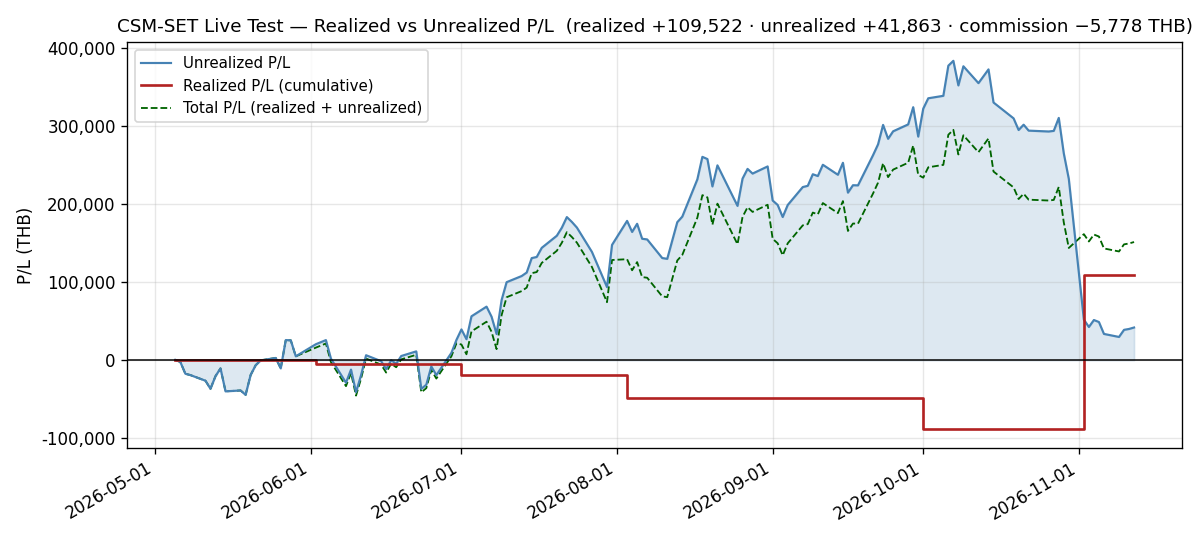
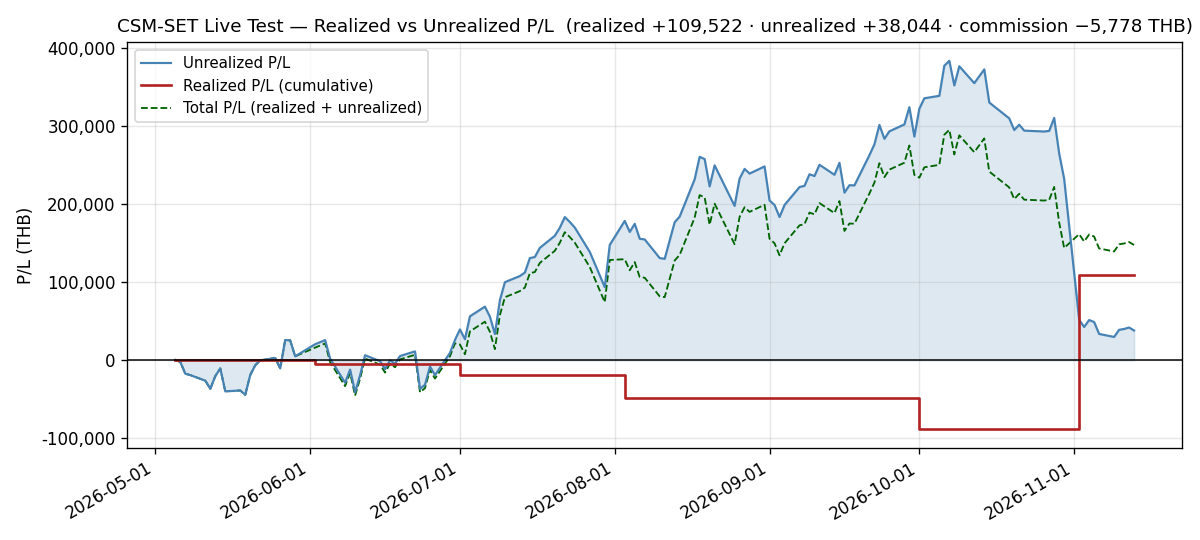
docs(live-test): add daily log for 2026-11-13
Scored session 10 of 41: NAV 1,265,955.32, -3,819.00 (-0.3008%) on the session and +0.3007% on NAV0; 4 up, 6 down. INSET, SMT and EPG took -3,902.00 together. Breaker stays TRIPPED (rolling drawdown -10.4372%); regime BEAR while the SET rose +0.3882% to its highest close since 2026-11-02. Sixth refresh on the current image clean (211/0); 44 of 430 holiday polls banked. Records the 2026-11-12 deletion of rollback-20261104 and the alert's AWS deploy of 2026-11-12. pnl.csv extended to 2026-11-13; only the P/L chart regenerated.

Claude-Session: https://claude.ai/code/session_01VKyqnmKmz6Hh9ErHRFMhFr

diff --git a/docs/live-test/daily/2026-11-13.md b/docs/live-test/daily/2026-11-13.md
@@ -1,0 +1,273 @@
+# Daily Log — 2026-11-13 (Friday)
+
+**As of:** 2026-11-13, Asia/Bangkok
+**Phase:** D — Final Evaluation & Documentation
+**Day:** 132 / 31 trading days remaining in 2026
+**Status:** 🟢 **SCORED — session 10 of 41 in the registered window** (`reports/2026-10-27-forward-scoring-pre-registration.md`). **NAV closes at 1,265,955.32 THB, −3,819.00 (−0.3008%) on the session and +0.3007% on NAV₀ = 1,262,159.89.** **4 names rose and 6 fell**; INSET (−4.17%), SMT (−4.48%) and EPG (−6.03%) together took −3,902.00, more than the book lost. 🔴 **The circuit breaker stays TRIPPED**, its rolling drawdown deepening to **−10.4372%** from −10.1670%. 🔴 **The regime stays BEAR**, although the SET rose +0.3882% to its highest close since 2026-11-02. 🟢 **The sixth scheduled refresh on image `7e49ed4f6a87` ran clean** (211 / 0), and no bound fired. Since the settfex 0.26.3 upgrade, **44 of 430 holiday polls banked** (Risk Note 7). Total Return on NAV is **+13.03%**.
+
+---
+
+## Execution Summary
+
+**No trades today.** The book is the one recorded from the 2026-11-02 rotation (`configs/live_portfolio.yaml` at `2f846b0`), unchanged since. Realized P/L for the session is **0.00 THB** and no commission was paid. **The breaker's safe mode acts only at a month-end evaluation**, so equity at 18.7825% of NAV creates no trade. The next evaluation is **2026-11-30** (registration §3).
+
+---
+
+## Portfolio Snapshot
+
+> 🟢 **Every figure in this section is SCORED-WINDOW data, session 10.** It is `configs/live_portfolio.yaml` at `2f846b0` repriced against the 2026-11-13 bar of `data/processed/prices_latest.parquet`, and it **equals** the `db_gateway.daily_performance` row the 18:00 refresh wrote.
+
+`Avg Cost` is the commission-inclusive per-share basis carried from `configs/live_portfolio.yaml` (4-decimal precision); `Cost Basis = shares × Avg Cost`, and `U.PL % = MV / Cost Basis − 1`.
+
+| # | Symbol | Shares | Avg Cost | Last Price | Market Value (THB) | Cost Basis (THB) | U.PL % |
+|---|--------|-------:|---------:|-----------:|--------------------:|-----------------:|-------:|
+| 1 | IRPC | 11,300 | 2.3037 | 2.48 | 28,024.00 | 26,031.81 | +7.65% |
+| 2 | HANA | 600 | 35.8070 | 46.75 | 28,050.00 | 21,484.20 | +30.56% |
+| 3 | GUNKUL | 6,100 | 2.9246 | 4.84 | 29,524.00 | 17,840.06 | +65.49% |
+| 4 | INSET | 8,400 | 3.0848 | 4.14 | 34,776.00 | 25,912.32 | +34.21% |
+| 5 | KCE | 500 | 39.0655 | 59.00 | 29,500.00 | 19,532.75 | +51.03% |
+| 6 | EPG | 3,400 | 5.9099 | 5.45 | 18,530.00 | 20,093.66 | −7.78% |
+| 7 | SMT | 4,000 | 5.8097 | 6.40 | 25,600.00 | 23,238.80 | +10.16% |
+| 8 | CNT | 3,600 | 3.3456 | 3.14 | 11,304.00 | 12,044.16 | −6.15% |
+| 9 | SPRC | 1,200 | 13.8232 | 13.40 | 16,080.00 | 16,587.84 | −3.06% |
+| 10 | SSP | 2,200 | 7.7129 | 7.45 | 16,390.00 | 16,968.38 | −3.41% |
+
+### Portfolio summary
+
+| Metric | Value |
+|--------|-------|
+| Total Cost Basis | 199,733.98 THB |
+| Total Market Value | 237,778.00 THB |
+| Unrealized P/L | +38,044.02 THB (+19.05%) |
+| Realized P/L (today) | 0.00 THB |
+| Realized P/L (cumulative, since inception) | **+109,521.83 THB** |
+| Commission paid (cumulative) | **−5,777.54 THB** |
+
+### Account summary
+
+| Metric | Value |
+|--------|-------|
+| Remaining Cash | 1,028,177.32 THB |
+| Total NAV | 1,265,955.32 THB |
+| Total Return on NAV | +13.03% |
+
+> **Cost-basis note:** Total Cost Basis is **199,733.98 THB**, equal to Σ per-symbol `shares × avg_cost` with a **0.00** delta, unchanged since the rotation.
+>
+> **Above/below cost: 6 up / 4 down**, the same names as on 2026-11-12. **EPG** (−7.78%), **CNT** (−6.15%), **SSP** (−3.41%) and **SPRC** (−3.06%) are below.
+>
+> **Equity is 18.7825% of NAV** (237,778.00 of 1,265,955.32), down from 19.0268%. The breaker acts only at the month-end evaluation.
+>
+> **Total P/L check:** realized + unrealized = 109,521.83 + 38,044.02 = **+147,565.85 THB**, down from +151,384.85 by **3,819.00**, exactly the session's NAV change.
+
+---
+
+## Day-over-Day Change (vs Thursday November 12)
+
+| Symbol | Nov 12 Close | Nov 13 Close | Change | Change % | MV Contribution (THB) |
+|--------|-------------:|-------------:|-------:|---------:|----------------------:|
+| IRPC | 2.40 | 2.48 | +0.08 | +3.33% | +904.00 |
+| SPRC | 13.20 | 13.40 | +0.20 | +1.52% | +240.00 |
+| CNT | 3.10 | 3.14 | +0.04 | +1.29% | +144.00 |
+| KCE | 58.25 | 59.00 | +0.75 | +1.29% | +375.00 |
+| SSP | 7.55 | 7.45 | -0.10 | -1.32% | -220.00 |
+| GUNKUL | 4.94 | 4.84 | -0.10 | -2.02% | -610.00 |
+| HANA | 48.00 | 46.75 | -1.25 | -2.60% | -750.00 |
+| INSET | 4.32 | 4.14 | -0.18 | -4.17% | -1,512.00 |
+| SMT | 6.70 | 6.40 | -0.30 | -4.48% | -1,200.00 |
+| EPG | 5.80 | 5.45 | -0.35 | -6.03% | -1,190.00 |
+| **Total** | | | | **-1.58%** | **-3,819.00** |
+
+**Breadth: 4 up, 6 down, 0 flat.**
+
+> The `Change %` on the Total row is the **market-value** change (−3,819.00 / 241,597.00 = −1.5807%), not the NAV change (−3,819.00 / 1,269,774.32 = −0.3008%). They differ by the cash in the NAV denominator, 80.97% of the prior session's NAV in safe mode.
+
+**Three names took more than the book lost.**
+
+- **INSET −4.17% (−1,512.00), SMT −4.48% (−1,200.00) and EPG −6.03% (−1,190.00)** took −3,902.00, against the session's −3,819.00. INSET closed at its lowest since 2026-10-27, and EPG's fall is its largest since 2026-11-06.
+- **HANA −2.60% (−750.00)** gave back part of its +20.75%, and GUNKUL fell −2.02% (−610.00).
+- **IRPC +3.33% (+904.00)** led the four risers, with KCE, SPRC and CNT; together they added +1,663.00.
+- **The book's −3,819.00 is its largest one-session fall since 2026-11-09**, and NAV is at its lowest since 2026-11-09.
+- **The book fell −0.3008% while the SET rose +0.3882%**, a **−0.6890pp** difference. It is a same-session arithmetic result for a book that is 81.22% cash, not a performance comparison (Market Context).
+
+---
+
+## Market Context
+
+| Indicator | Value | Source |
+|-----------|-------|--------|
+| SET Index | 1,504.88 | tvkit (TradingView) |
+| SET Open / High / Low | 1,499.07 / 1,513.33 / 1,499.02 | tvkit |
+| SET 200-day SMA | 1,524.6188 | tvkit (TradingView) |
+| Regime Estimate | BEAR | SET −1.29% below SMA200 |
+
+> ⚠ **This is context, NOT a benchmark comparison, and it must not be read as one.**
+>
+> - **Different price bases.** `SET:SET` is a **price index**; the strategy series above is priced on **dividend-adjusted** bars (since `e04a292`, 2026-08-09). The difference is one-sided in the strategy's favour, and it is not small: measured 2026-09-11 over 2024-03-19 → 2026-09-10, the dividend adjustment is worth **+12.09 percentage points** on this universe, roughly **+4.8%/yr**.
+> - **No alpha, excess return or outperformance figure is computed anywhere in this log.** The registration's tracking error against this index is reported in Risk Note 1 as a risk metric (§5).
+
+---
+
+## Regime State
+
+- **Detected regime:** 🔴 **BEAR**, the tenth session. SET (1,504.88) is **below** SMA200 (1,524.6188) by −1.2947%.
+- **SMA200 position:** 1,524.6188, with the SET closing 19.74 points under it.
+- **3-month return:** −7.36% (window-sensitive — see Notes).
+- **The engine's own `RegimeDetector.detect()` also returns BEAR**: price below SMA200, and a 63-session return of **−6.47%** against its −5% threshold.
+- **No regime-driven action under the registration.** The regime filter is not one of the registered rules (§4). The SET closed −3.25% below its own EMA100 and −0.54% below its EMA200; both are reported and not applied.
+
+**The last six closes read 1,465.70 → 1,473.07 → 1,496.31 → 1,502.11 → 1,499.06 → 1,504.88.**
+
+- **Today:** a **+5.82 point, +0.3882%** session. The index is **−7.2144%** below the 2026-09-08 high.
+- **The SET's highest close since 2026-11-02**, on bars fetched back to 2020-09-02.
+- **Range:** **14.31 points**, against 12.62 the prior session. The index opened at 1,499.07, reached 1,513.33, and closed 5.86 above its low.
+- **Cushion rose −1.6024% → −1.2947%, a +0.3077pp step**, its highest since 2026-11-05. SMA200 rose to **1,524.6188** (+1.1464).
+- **A BEAR→BULL crossing needs the index 19.74 points higher**, +1.31% at today's SMA200.
+
+The 3-month figure moved from −7.01% to −7.36%, its start bar moving from 2026-08-07 (1,612.00) to 2026-08-10 (1,624.36).
+
+---
+
+## Sector Concentration
+
+Groupings are SET-official, as on 2026-11-02. The book is held at about 20% equity by the breaker's safe mode.
+
+| Sector | Market Value (THB) | % of NAV | % of stocks held | Limit (NAV) | Status |
+|--------|--------------------:|---------:|-----------------:|-------------|--------|
+| Energy & Utilities (ENERG) | 90,018 | 7.1107% | 37.8580% | 35% | OK on NAV |
+| Electronic Components (ETRON) | 83,150 | 6.5682% | 34.9696% | 35% | OK on NAV |
+| ICT | 34,776 | 2.7470% | 14.6254% | 35% | OK |
+| Construction Materials (CONMAT) | 18,530 | 1.4637% | 7.7930% | 35% | OK |
+| Construction Services (CONS) | 11,304 | 0.8929% | 4.7540% | — | below the 5% floor by ruling I5 |
+
+- **ENERG still leads at 7.1107% of NAV** (+0.0461pp). **ETRON fell −0.1042pp to 6.5682%** on SMT and HANA. ICT −0.1108pp on INSET, CONMAT −0.0893pp on EPG, CONS +0.0140pp.
+- **The 35% cap is measured on NAV** (I2), and no sector is near it.
+- **As a share of the stocks held, ENERG is 37.86% and ETRON 34.97%.** The two hold 72.83% of the equity sleeve between them. This is recorded for context; it is not the registered measure.
+- **Every position is below the 5% floor**, between 0.8929% (CNT) and 2.7470% (INSET) of NAV. The breaker governs the band (I5), so **these are not deviations**.
+
+---
+
+## Risk Notes
+
+1. 🟢 **SCORED SESSION 10 OF 41.**
+
+   | Measure (registration §5) | Value |
+   |---|---|
+   | NAV₀ (2026-10-30 close) | 1,262,159.89 |
+   | NAV₉ (2026-11-12 close) | 1,269,774.32 |
+   | NAV₁₀ (2026-11-13 close) | 1,265,955.32 |
+   | r₁₀ = NAV₁₀ / NAV₉ − 1 | **−0.3008%** |
+   | Window return to date | **+0.3007%** |
+   | Max drawdown to date (running peak from NAV₀) | **−1.7323%** (2026-11-09, from the 2026-11-02 peak) |
+   | Annualized volatility (n = 10) | 12.06% |
+   | Sharpe, rf = 2% (n = 10) · rf = 0 | 0.52 · 0.68 |
+   | Tracking error vs `SET:SET` (n = 10) | 14.59% |
+
+   **Ten returns carry almost no information**, and annualizing them magnifies that. **No criterion is graded before the window ends** (2026-12-30), and §9's power statement applies to every figure here.
+2. 🟢 **`daily_performance` equals this log.** The row reads **1,265,955.32, cash 1,028,177.32**, and `equity_curve` agrees.
+   - `daily_return` (−0.3008%) equals the day-over-day change to within 1×10⁻¹⁹.
+   - `cumulative_return` reads −1.0851% and `combined_drawdown` −1.7323%: both are measured from `entry_date` 2026-11-02. They are not the scored series (§5).
+3. 🔴 **CIRCUIT BREAKER — TRIPPED, threaded one session (I4).**
+   - **Procedure:** `DrawdownCircuitBreaker` with the recorded parameters (60 sessions, −10% trip, −5% recovery held 21 sessions), called with the state carried from 2026-11-12 (TRIPPED, recovery progress 0) on the published NAV series. It returns **TRIPPED**, rolling drawdown **−10.4372%**, equity fraction **0.20**, no transition.
+   - The drawdown deepened from −10.1670% on 2026-11-12. **Recovery needs it above −5%**, so the state does not move.
+   - The 2026-10-07 peak (1,413,483.89) is still the window's high.
+   - **Recovery** starts when the rolling drawdown rises above −5%, at NAV **1,342,809.70**. That is **76,854.38 (+6.0709%)** above today's NAV. From a book 18.78% in stocks, it needs the equity sleeve to rise about **32.32%**.
+   - **The 1,064,000 THB line** (5% below `starting_nav`) has NAV **+201,955.32** (15.95%) above it. Under the registration it is a reporting line and carries no action.
+4. 🔴 **REGIME — BEAR, the tenth session** (Regime State). Under the registration it changes nothing. The transition is recorded in `events/2026-11-02-regime-transition-bull-to-bear.md`.
+5. 🟢 **EXECUTION — CLOSED** by the operator's ruling of 2026-11-04: the operator places every order by hand (registration §12; `events/2026-11-03-rotation-orders-placed-as-limit-orders.md`). Nothing changed since.
+6. 🟢 **REFRESH — the sixth scheduled firing on image `7e49ed4f6a87` ran clean.** It started at 11:00:00Z and completed at 11:01:32Z with receipt 211 / 0, in 90.634 s.
+   - **No bound fired.** The container log since the image started holds no "Failed to fetch symbol" line, no "timed out" line and no "daily_refresh exceeded" line, and every symbol came back on attempt 1. [[TK-0657]]
+7. ⚠ **HOLIDAY POLL — 44 of 430 polls banked since the settfex 0.26.3 upgrade (10.2%); 37 of 384 on the current image.**
+
+   | Window | Image | Poll runs | Banked | Failure lines |
+   |---|---|---:|---:|---|
+   | 2026-11-04T12:20:14Z → 2026-11-05T10:50:14Z | `db0cb596918c` | 46 | 7 | none (failures logged at DEBUG) |
+   | 2026-11-05T11:26:33Z → 2026-11-13T10:56:33Z | `7e49ed4f6a87` | 384 | 37 | 347, all `FetchError status_code=401` |
+   | **Total** | | **430** | **44** | |
+
+   - **How banked polls are counted.** The observer's record covers the current image's first 99 runs (6 banked). After it ended on 2026-11-07T12:33:49Z, a run with no failure line counts as banked.
+   - **Positive control:** the latest run before the 18:00 firing with no failure line, 09:56:33Z, matches the `captured_at` of 09:56:33Z that the firing read.
+   - **Exposure:** polls banked on every Bangkok date since the upgrade (2026-11-04: 2, 2026-11-05: 5, 2026-11-06: 4, 2026-11-07: 2, 2026-11-08: 7, 2026-11-09: 3, 2026-11-10: 3, 2026-11-11: 6, 2026-11-12: 6, 2026-11-13: 6 to the 18:00 firing). The longest gap between two banked polls is still **17 h 00 m** (2026-11-06 12:56Z → 2026-11-07 05:56Z).
+   - #461 has no reply from `session:pm` yet.
+8. 🟢 **INFRA — one housekeeping change.**
+   - **`rollback-20261104`** (`73a1ace1eaee`, the last settfex 0.15.1 image) was deleted on 2026-11-12, with the operator's go: `docker image rm` without `-f`, after checking that no container used it.
+   - **`rollback-20261105`** (`db0cb596918c`, settfex 0.26.3) stays as the immediate rollback for the running image.
+   - **The missing-receipt alert** (TK-0657, closed) has run on HOME since 2026-11-11 (#464). This session's report landed at 18:01 BKK, before the 22:30 BKK due time.
+   - **Its AWS deploy landed on 2026-11-12 at 17:06:15 BKK.** It is inert there, because AWS has no gateway and no webhook. The record is the umbrella's observability roadmap (A20, `0b0363c`), not a comment on #464. ↻ **The 2026-11-12 log said this deploy was "not yet recorded"**. It had been recorded at 17:14 BKK that day, in the roadmap, which that log did not check.
+9. 🟢 **Bands, by ruling.** The 35% cap is measured on NAV, where ENERG leads at 7.1107% (I2). Every position is below the 5% floor (I5). [[TK-0279]]
+10. 🟢 **The uncredited dividend total holds at 8,927.00 THB**: KCE 1,560.00, INSET 2,100.00, MGC 2,208.00, FORTH 795.00, IRPC 2,264.00.
+    - That is **0.71% of NAV** and **6.05%** of the +147,565.85 total P/L.
+    - The registration reports dividends beside each score and does not credit them (§8).
+11. ⚠ **DOC — the `csm-set-daily-log` skill's `daily_return` guidance remains stale.** Its Step 3 still calls the field *"an open defect, not yet fixed in code"*; it was fixed 2026-09-02, and today's row shows it (Risk Note 2). **Forty-sixth log to carry this.**
+12. **Open decisions — answered for the scored window, by the registration's §8 and §12 and the 2026-10-31 rulings.**
+
+    | Decision | Registered for the window |
+    |---|---|
+    | EMA100 | per holding |
+    | Bands | bind at construction, on the names being traded; the breaker governs them in safe mode (I5) |
+    | Sector cap | measured on NAV, checked on the scaled book (I2) |
+    | Breaker state | advances every trading session (I4) |
+    | Price history | the published NAV, frozen at publication |
+    | Dividends | not credited, reported beside each score |
+    | Fill rule | the operator places every order by hand (amendment of 2026-11-04, registration §12) |
+
+---
+
+## Notes
+
+- **Scheduled refresh completed via APScheduler with zero failures.**
+  - `"Scheduled daily_refresh completed"` at **2026-11-13T11:01:32Z** (18:01 BKK).
+  - It was the 18:00 cron firing (`cron[... day_of_week='mon-fri', hour='18', minute='0']`, started 11:00:00Z).
+  - Receipt: `symbols_fetched=211, failures=0, duration_seconds=90.634, held_symbols_fetched=10, held_symbols_failed=0, retry_attempts_used=0, index_fetched=true`, corroborated by `results/.tmp/last_refresh.json`.
+  - The held phase ended `requested=10 recovered=10 still_failing=0` at 11:00:08Z, and the universe phase `requested=201 recovered=201 still_failing=0` at 11:01:13Z. The gateway accepted the daily report (`201`) at 11:01:32Z.
+  - The cron trigger is unchanged (Monday to Friday, 18:00), so the next firing is 2026-11-16 18:00 +07.
+- **No manual trigger, checked on the access log's fields.**
+  - Every access record since the container started was parsed, and its `method` and `path` fields were tested for a `POST` to a path under `/api/v1/scheduler/run`. There were 22,794 access records, all `GET /health`, and no `POST` of any kind.
+  - **Positive control:** the same parse finds a synthetic access record with method `POST` and path `/api/v1/scheduler/run/daily_refresh` appended to a copy of the log.
+- **The log holds no ERROR since the container started.** Of 31,933 JSON records, 31,932 are INFO and one is WARNING: the startup notice that `CSM_API_KEY` is unset (2026-11-05T11:26:03Z).
+- **The container runs image `7e49ed4f6a87`**, its sixth scheduled refresh.
+  - `Created` 2026-11-05T11:25:48Z, `StartedAt` 11:25:50Z, `RestartCount` 0. `FinishedAt` is unset (0001-01-01) because this container has never stopped.
+  - The host has not rebooted since 2026-10-06 (`uptime -s` 2026-10-06 10:46:02).
+- **`SET:THCOM` was fetched with 600 bars again.**
+- **The price panel and the prior log agree on all ten names**, so **nothing was restated**.
+- **The panel's row count fell 899 → 898.** Every row still carries a 09:55 Bangkok stamp, the column count is unchanged at **211**, and no session date is duplicated.
+- **Row-integrity checks pass.** `db_csm_set.equity_curve` holds **exactly one row per trading day at `00:00:00+00`** (131 rows, 131 dates, none off midnight), and today's row equals `daily_performance.total_value`.
+- **`configs/live_portfolio.yaml` is unchanged** since `2f846b0`.
+- **The P/L identity holds.** `realized_cum + unrealized − (NAV − starting_nav)` = 109,521.83 + 38,044.02 − 145,955.32 = **1,610.53 THB**, unchanged.
+- **Every figure was verified rather than asserted.**
+  - Σ position market value equals Total Market Value exactly (237,778.00).
+  - **Total NAV (1,265,955.32) equals `db_gateway.daily_performance.total_value` to the satang**, and cash equals the YAML's 1,028,177.32.
+  - The contributions sum to the session's NAV change (−3,819.00) exactly.
+  - The sector table sums to Total Market Value exactly.
+  - Σ per-symbol cost basis matches Total Cost Basis with a **0.00** delta, and the position count is 10.
+  - All money arithmetic used `Decimal` with explicit half-up rounding, and so did SMA200.
+- **Realized P/L and commission ledger, unchanged.**
+  - Realized cumulative **+109,521.83 THB**: 2026-06-02 −4,351.87 · 2026-07-01 −14,964.06 · 2026-08-03 −29,775.45 · 2026-10-01 −39,365.29 · 2026-11-02 +197,978.50.
+  - Commission cumulative **−5,777.54 THB**: 05-05 1,611.15 · 06-02 984.44 · 06-04/05 169.09 · 07-01 287.83 · 08-03 682.65 · 10-01 201.81 · 11-02 1,840.57.
+- **Capital events to date, unchanged.** `starting_nav` 1,120,000 after 1,000,000 → 1,100,000 (2026-06-04, +100,000) → 1,120,000 (2026-08-03, +20,000).
+- **Every superlative was computed, and each names its window.**
+
+  | Claim | Window | Source |
+  |---|---|---|
+  | INSET's low; EPG's fall | the whole panel, which starts 2024-05-27 for these names | the panel |
+  | The book's largest fall since 2026-11-09, and NAV's lowest since 2026-11-09 | the published NAV series, from 2026-05-04 | `daily_performance` |
+  | The SET's highest close since 2026-11-02; the cushion's highest since 2026-11-05 | bars fetched back to 2020-09-02 | tvkit |
+- **3-month return figure is window-sensitive.** −7.36% is measured over the trailing 66 bars from today's close (start bar 2026-08-10, 1,624.36). The engine's 63-session figure is −6.47%. The regime estimate uses the SMA200 only.
+- **Follow-ups for the next session (Monday 2026-11-16 18:00 +07).**
+
+  | | Item | Level |
+  |---|---|---|
+  | (a) | the breaker state, threaded once | TRIPPED; rolling drawdown −10.4372%; recovery above 1,342,809.70 |
+  | (b) | the regime | BEAR; 19.74 points to a BULL crossing |
+  | (c) | the holiday-poll rate | banked ÷ run, by failure lines |
+  | (d) | #461 | `session:pm`'s |
+  | (e) | the next monthly evaluation | 2026-11-30 |
+
+  **The five follow-ups from 2026-11-12 are closed above or elsewhere:**
+  - (a) Risk Note 3; (b) Risk Note 4; (c) Risk Note 7;
+  - (d) Risk Note 8: `rollback-20261104` deleted on the operator's go;
+  - (e) the weekly report for 2026-11-09 → 2026-11-13 is written after this log (`weekly/2026-11-13.md`).
+- **Calendar.** 2026-11-13 was a trading session.
+  - The 18:00 firing read the banked SET holiday calendar (`results/.tmp/set_holidays.json`) at `captured_at 2026-11-13T09:56:33Z`.
+  - The banked calendar lists the remaining 2026 closures as **2026-12-07**, **2026-12-10** and **2026-12-31**. The next session is **2026-11-16**.
+  - No trading hours are stated anywhere in this log.
+- Data fetched via tvkit (TradingView, free tier): all 10 held-symbol prices from the 18:00 BKK scheduled-cron refresh; SET Index context anchored explicitly to the 2026-11-13 bar. ⚠ **The vendor back-adjusts a symbol's entire history on an ex-dividend date**, so any prior-session price quoted here is the vendor's *current* view of that session and not necessarily what was published at the time.

diff --git a/docs/live-test/graphs/README.md b/docs/live-test/graphs/README.md
@@ -1,9 +1,9 @@
 # Live-Test Charts — how these are generated
 
-_🟢 **The three NAV charts are on the October month-end, 2026-10-30; the P/L chart is newer, 2026-11-12.** The three **NAV** charts
+_🟢 **The three NAV charts are on the October month-end, 2026-10-30; the P/L chart is newer, 2026-11-13.** The three **NAV** charts
 (`equity_curve`, `drawdown`, `monthly_returns`) were regenerated on 2026-10-30 from `nav_actual.csv` /
 `nav_twr.csv` extended to **121 points** (2026-05-04 → 2026-10-30). `pnl_realized_unrealized.png` was
-regenerated on 2026-11-12 from `pnl.csv` (**130 rows**, through 2026-11-12; its newest realized step is the 2026-11-02 rotation's). ⚠ **The September rows of the two NAV CSVs
+regenerated on 2026-11-13 from `pnl.csv` (**131 rows**, through 2026-11-13; its newest realized step is the 2026-11-02 rotation's). ⚠ **The September rows of the two NAV CSVs
 come from `db_gateway.daily_performance`, not `equity_curve`** — IRPC's 2026-09-09 restatement rewrote the
 `equity_curve` rows it would otherwise have supplied; see the 2026-09-30 History entry. **The October rows
 are the published daily-log NAVs**, which equal `equity_curve` on every October session; `daily_performance`
@@ -262,14 +262,24 @@ restatement has rewritten `equity_curve` rows inside the month being appended, *
 | `monthly_returns.png` | May **+0.33%** · Jun **+1.44%** · Jul **+9.53%** · Aug **+5.68%** · Sep **+2.90%** · Oct **−6.90%** (no flow in September or October, so the TWR and actual-NAV figures agree for both) |
 | **August bar is the TWR figure** | **+5.68%**, NOT the reported +7.40% and NOT the ex-injection +5.77%. Feeding `nav_actual.csv` instead reproduces the documented failure mode — **Jun +11.62%** and Aug +7.40% |
 | June bar vs the June review | must read **+1.44%**, not +11.62% |
-| `pnl_realized_unrealized.png` *(the 2026-11-12 PNG, through 11-12)* | realized **+109,521.83** · unrealized **+41,863.02** · commission **−5,777.54** THB; the realized line is **flat except at 2026-06-02, 2026-07-01, 2026-08-03, 2026-10-01 and 2026-11-02** — **five** steps, the last one upward. *(The 2026-11-11 PNG read the same realized and commission with unrealized +40,003.02 at 129 points; the 2026-11-10 PNG read the same realized and commission with unrealized +38,865.02 at 128 points; the 2026-11-09 PNG read the same realized and commission with unrealized +29,761.02 at 127 points; the 2026-11-06 PNG read the same realized and commission with unrealized +33,639.02 at 126 points; the 2026-11-05 PNG read the same realized and commission with unrealized +48,895.02 at 125 points; the 2026-11-04 PNG read the same realized and commission with unrealized +51,445.02 at 124 points; the 2026-11-03 PNG read the same realized and commission with unrealized +42,526.02 at 123 points; the 2026-11-02 PNG read the same realized and commission with unrealized +51,932.02 at 122 points; the 2026-10-30 PNG read realized −88,456.67 · unrealized +232,227.03 · commission −3,936.97 at 121 points, with four steps; the 2026-10-29 PNG read the same realized and commission with unrealized +264,919.03 at 120 points; the 2026-10-28 PNG read the same realized and commission with unrealized +310,400.03 at 119 points; the 2026-10-27 PNG read the same realized and commission with unrealized +293,787.03 at 118 points; the 2026-10-26 PNG read the same realized and commission with unrealized +293,003.03 at 117 points; the 2026-10-22 PNG read the same realized and commission with unrealized +294,101.03 at 116 points; the 2026-10-21 PNG read the same realized and commission with unrealized +301,696.03 at 115 points; the 2026-10-20 PNG read the same realized and commission with unrealized +294,904.03 at 114 points; the 2026-10-19 PNG read the same realized and commission with unrealized +309,815.03 at 113 points; the 2026-10-15 PNG read the same realized and commission with unrealized +330,143.03 at 112 points; the 2026-10-14 PNG read the same realized and commission with unrealized +372,572.03 at 111 points; the 2026-10-12 PNG read the same realized and commission with unrealized +354,949.03 at 110 points; the 2026-10-09 PNG +376,567.03 at 109; the 2026-10-08 PNG +352,021.03 at 108; the 2026-10-07 PNG +383,551.03 at 107; the 2026-10-06 PNG +377,303.03 at 106; the 2026-10-05 PNG +338,709.03 at 105; the 2026-10-02 PNG +335,559.03 at 104; the 2026-10-01 PNG +322,278.03 at 103.)* *(The 2026-08-31 PNG read:* realized **−49,091.38** · unrealized **+248,232.35** · commission **−3,735.16** THB; the realized line is **flat except at 2026-06-02, 2026-07-01 and 2026-08-03** — **three** steps.) *(The superseded 2026-08-28 render showed −49,091.38 / +239,078.35 at 79 points; the 2026-08-27 one showed −49,091.38 / +245,069.35 at 78 points; the 2026-08-26 one showed −49,091.38 / +232,605.35 at 77 points; the 2026-08-25 one showed −49,091.38 / +197,671.35 at 76 points; the 2026-08-24 one showed −49,091.38 / +210,441.35 at 75 points; the 2026-08-21 one showed −49,091.38 / +249,619.35 at 74 points; the 2026-08-20 one showed −49,091.38 / +222,599.35 at 73 points; the 2026-08-19 one showed −49,091.38 / +257,693.35 at 72 points; the 2026-08-18 one showed −49,091.38 / +260,527.35 at 71 points; the 2026-08-17 one showed −49,091.38 / +231,713.35 at 70 points; the 2026-08-14 one −49,091.38 / +183,951.35 at 69 points; the 2026-08-12 one −49,091.38 / +129,844.35 at 67 points; the 2026-08-01 one −19,315.93 / +147,665.89 / −3,052.51 and only two steps.)* |
-| `pnl.csv` last row *(the CSV and the P/L PNG are in sync — see the header)* | 2026-11-12: realized **+109,521.83** · unrealized **+41,863.02** · total **+151,384.85** · commission **5,777.54** THB; **130 rows**, matching `equity_curve`'s 130 **in row count only** *(↻ this row read 2026-08-31 / 80 rows until 2026-10-02: the September daily runs extended the CSV without updating it; it is updated with each session's History entry since)* — the values diverge historically after the KCE, INSET, MGC *and* FORTH restatements (see the header caveat) |
+| `pnl_realized_unrealized.png` *(the 2026-11-13 PNG, through 11-13)* | realized **+109,521.83** · unrealized **+38,044.02** · commission **−5,777.54** THB; the realized line is **flat except at 2026-06-02, 2026-07-01, 2026-08-03, 2026-10-01 and 2026-11-02** — **five** steps, the last one upward. *(The 2026-11-12 PNG read the same realized and commission with unrealized +41,863.02 at 130 points; the 2026-11-11 PNG read the same realized and commission with unrealized +40,003.02 at 129 points; the 2026-11-10 PNG read the same realized and commission with unrealized +38,865.02 at 128 points; the 2026-11-09 PNG read the same realized and commission with unrealized +29,761.02 at 127 points; the 2026-11-06 PNG read the same realized and commission with unrealized +33,639.02 at 126 points; the 2026-11-05 PNG read the same realized and commission with unrealized +48,895.02 at 125 points; the 2026-11-04 PNG read the same realized and commission with unrealized +51,445.02 at 124 points; the 2026-11-03 PNG read the same realized and commission with unrealized +42,526.02 at 123 points; the 2026-11-02 PNG read the same realized and commission with unrealized +51,932.02 at 122 points; the 2026-10-30 PNG read realized −88,456.67 · unrealized +232,227.03 · commission −3,936.97 at 121 points, with four steps; the 2026-10-29 PNG read the same realized and commission with unrealized +264,919.03 at 120 points; the 2026-10-28 PNG read the same realized and commission with unrealized +310,400.03 at 119 points; the 2026-10-27 PNG read the same realized and commission with unrealized +293,787.03 at 118 points; the 2026-10-26 PNG read the same realized and commission with unrealized +293,003.03 at 117 points; the 2026-10-22 PNG read the same realized and commission with unrealized +294,101.03 at 116 points; the 2026-10-21 PNG read the same realized and commission with unrealized +301,696.03 at 115 points; the 2026-10-20 PNG read the same realized and commission with unrealized +294,904.03 at 114 points; the 2026-10-19 PNG read the same realized and commission with unrealized +309,815.03 at 113 points; the 2026-10-15 PNG read the same realized and commission with unrealized +330,143.03 at 112 points; the 2026-10-14 PNG read the same realized and commission with unrealized +372,572.03 at 111 points; the 2026-10-12 PNG read the same realized and commission with unrealized +354,949.03 at 110 points; the 2026-10-09 PNG +376,567.03 at 109; the 2026-10-08 PNG +352,021.03 at 108; the 2026-10-07 PNG +383,551.03 at 107; the 2026-10-06 PNG +377,303.03 at 106; the 2026-10-05 PNG +338,709.03 at 105; the 2026-10-02 PNG +335,559.03 at 104; the 2026-10-01 PNG +322,278.03 at 103.)* *(The 2026-08-31 PNG read:* realized **−49,091.38** · unrealized **+248,232.35** · commission **−3,735.16** THB; the realized line is **flat except at 2026-06-02, 2026-07-01 and 2026-08-03** — **three** steps.) *(The superseded 2026-08-28 render showed −49,091.38 / +239,078.35 at 79 points; the 2026-08-27 one showed −49,091.38 / +245,069.35 at 78 points; the 2026-08-26 one showed −49,091.38 / +232,605.35 at 77 points; the 2026-08-25 one showed −49,091.38 / +197,671.35 at 76 points; the 2026-08-24 one showed −49,091.38 / +210,441.35 at 75 points; the 2026-08-21 one showed −49,091.38 / +249,619.35 at 74 points; the 2026-08-20 one showed −49,091.38 / +222,599.35 at 73 points; the 2026-08-19 one showed −49,091.38 / +257,693.35 at 72 points; the 2026-08-18 one showed −49,091.38 / +260,527.35 at 71 points; the 2026-08-17 one showed −49,091.38 / +231,713.35 at 70 points; the 2026-08-14 one −49,091.38 / +183,951.35 at 69 points; the 2026-08-12 one −49,091.38 / +129,844.35 at 67 points; the 2026-08-01 one −19,315.93 / +147,665.89 / −3,052.51 and only two steps.)* |
+| `pnl.csv` last row *(the CSV and the P/L PNG are in sync — see the header)* | 2026-11-13: realized **+109,521.83** · unrealized **+38,044.02** · total **+147,565.85** · commission **5,777.54** THB; **131 rows**, matching `equity_curve`'s 131 **in row count only** *(↻ this row read 2026-08-31 / 80 rows until 2026-10-02: the September daily runs extended the CSV without updating it; it is updated with each session's History entry since)* — the values diverge historically after the KCE, INSET, MGC *and* FORTH restatements (see the header caveat) |
 | The August regeneration *(**done** 2026-08-12, **superseded** by the 2026-08-14, 2026-08-17, 2026-08-18, 2026-08-19, 2026-08-20, 2026-08-21, 2026-08-24, 2026-08-25, 2026-08-26, 2026-08-27, 2026-08-28 and then the 2026-08-31 render)* | ✅ satisfied — the current PNG title reads `realized -49,091 · unrealized +248,232 · commission −3,735 THB`, the series ends 2026-08-31 at 80 points, and the realized line steps **three** times. Verified by eye against the rendered image, not only from the generator's stdout |
 | Only ONE PNG may change on a P/L regeneration | ✅ `gen_pnl_chart.py:118` writes `pnl_realized_unrealized.png` and nothing else. Checksum the four PNGs before and after: the three NAV charts must be **byte-identical** and keep their 2026-08-01 mtimes. Verified 2026-08-14, 2026-08-17, 2026-08-18, 2026-08-19, 2026-08-20, 2026-08-21, 2026-08-24, 2026-08-25, 2026-08-26, 2026-08-27, 2026-08-28 and 2026-08-31 — only the P/L PNG's hash moved on all twelve |
 | P/L reconciliation | `realized_cum + unrealized − (NAV − capital)` = **1,610.53** from 2026-11-02 (**1,610.47** for 2026-10-01 → 2026-10-30, **1,610.27** for 2026-08-03 → 2026-09-30, **1,609.61** for 2026-07-01 → 2026-07-31; every era since 2026-05-05 is listed in §Reconciliation residual, corrected 2026-10-31), and constant *within* each era; the 2026-11-02 step is **+0.06** (SPRC +0.02, SSP −0.08 against their all-in costs) and the 2026-10-01 step **+0.20**, CNT's: 4-dp `avg_cost` rounding both times. A *drifting* residual means a realisation was missed; the one-time **+0.66** step at the rotation is 4-dp `avg_cost` rounding — see above |
 | `commission_cum` | rises **only on the 8 fill dates** (05-05, 06-02, 06-04, 06-05, 07-01, 08-03, 10-01, **11-02**); a rise on any other day means a non-trading day was credited with a fill |
 
 ## History
+
+**`pnl.csv` extended through 2026-11-13** on 2026-11-13, appending the **2026-11-13** row — scored session 10,
+a no-trade session. `realized_cum` (+109,521.83) and `commission_cum` (5,777.54) are unchanged, so the realized
+line takes no step. Unrealized falls +41,863.02 → **+38,044.02** and `total_pl` +151,384.85 → **+147,565.85**
+(−3,819.00, exactly the session's NAV change); `total_pl` is at its lowest since 2026-11-09 in this CSV.
+The reconciliation residual holds at **1,610.53**.
+**`pnl_realized_unrealized.png` was regenerated in the same session**, so the two artifacts end together at
+**131 points**; the four PNGs were checksummed (md5) before and after, and the three NAV charts are
+byte-identical (`drawdown` 7df00897…, `equity_curve` 5ab54261…, `monthly_returns` 89088737…), with only the
+P/L chart's hash moving (8052b382… → **87bf5423…**). Checked against the rendered image.
 
 **`pnl.csv` extended through 2026-11-12** on 2026-11-12, appending the **2026-11-12** row — scored session 9,
 a no-trade session. `realized_cum` (+109,521.83) and `commission_cum` (5,777.54) are unchanged, so the realized
